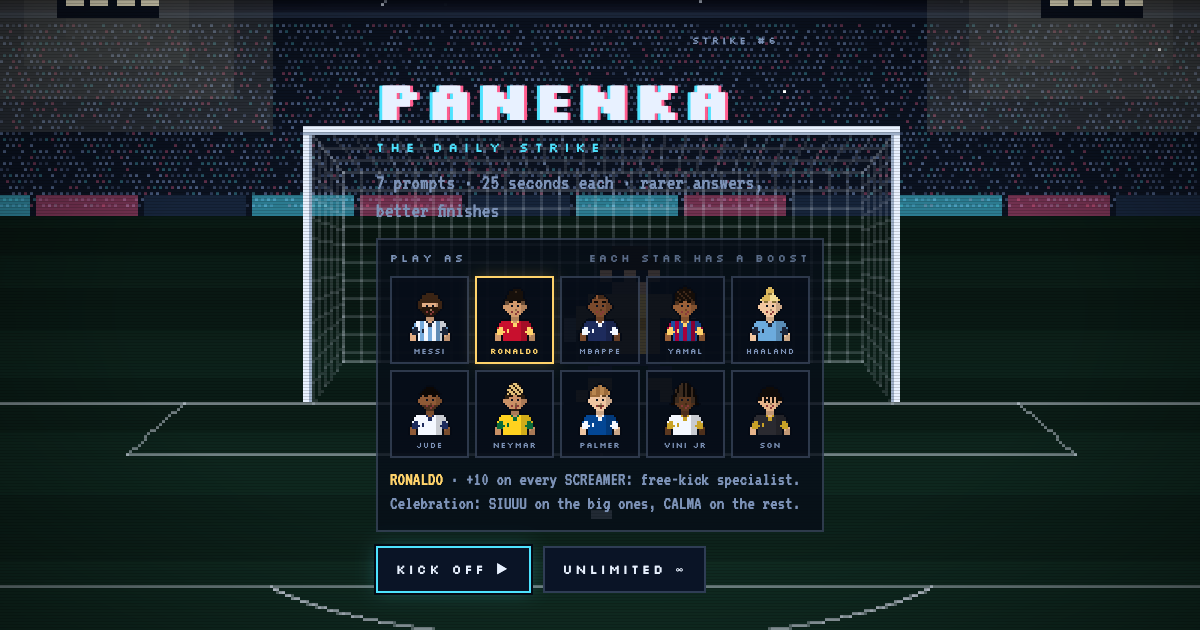
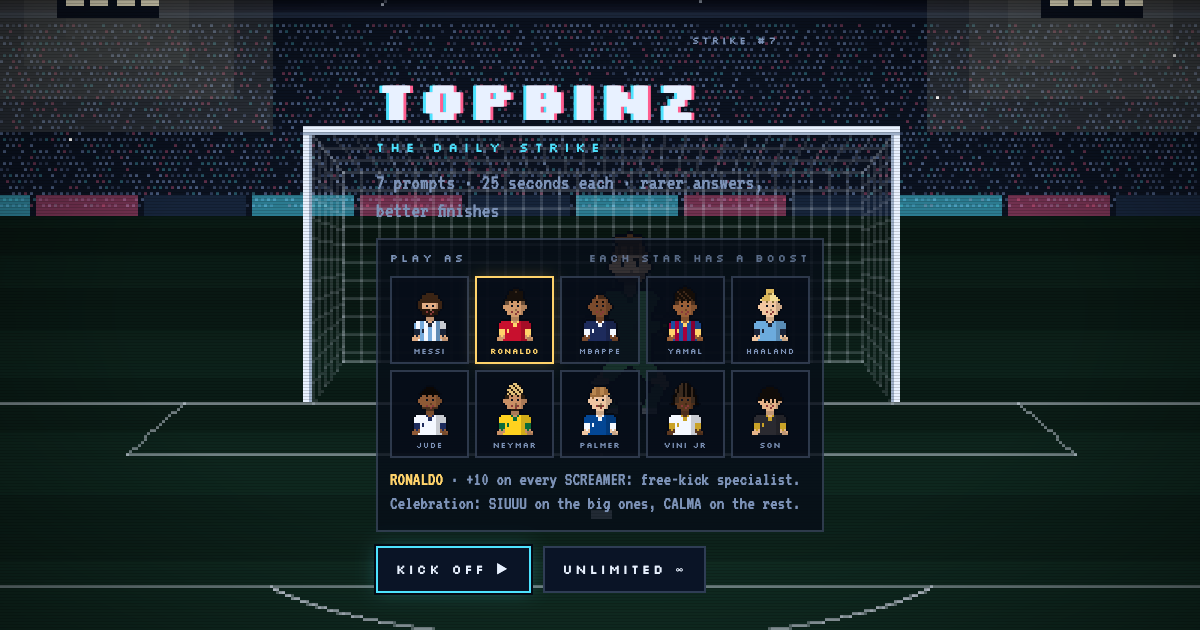
Rename to Topbinz

diff --git a/index.html b/index.html
@@ -3,11 +3,11 @@
 <head>
 <meta charset="utf-8">
 <meta name="viewport" content="width=device-width, initial-scale=1, viewport-fit=cover">
-<title>Panenka</title>
+<title>Topbinz</title>
 <meta name="description" content="A daily soccer trivia game. Name rare answers to score better finishes, from tap-ins all the way to top bins.">
 <meta name="theme-color" content="#050a14">
 <meta property="og:type" content="website">
-<meta property="og:title" content="Panenka">
+<meta property="og:title" content="Topbinz">
 <meta property="og:description" content="A daily soccer trivia game. Name rare answers to score better finishes, from tap-ins all the way to top bins.">
 <meta property="og:url" content="https://kennyshii.github.io/top-bins/">
 <meta property="og:image" content="https://kennyshii.github.io/top-bins/og.png">
@@ -162,7 +162,7 @@ svg { display: block; width: 100%; height: auto; overflow: visible; }
 
 <main class="col">
   <header class="top">
-    <a class="logo" id="home" href="./" aria-label="Panenka, back to the start screen">PANENKA</a>
+    <a class="logo" id="home" href="./" aria-label="Topbinz, back to the start screen">TOPBINZ</a>
     <div class="topR">
       <div class="tag" id="strikeTag">STRIKE #1</div>
       <button class="snd" id="snd" type="button" aria-pressed="true" aria-label="Sound" title="Sound on"><svg viewBox="0 0 11 10" shape-rendering="crispEdges" aria-hidden="true"><path d="M0 3h3v4H0zM3 2h1v6H3zM4 1h1v8H4z" fill="currentColor"/><path class="on" d="M7 3h1v4H7zM9 1h1v8H9z" fill="currentColor"/><path class="off" d="M7 3h1v1H7zM9 3h1v1H9zM8 4h1v2H8zM7 6h1v1H7zM9 6h1v1H9z" fill="currentColor"/></svg></button>
@@ -170,7 +170,7 @@ svg { display: block; width: 100%; height: auto; overflow: visible; }
   </header>
 
   <section class="hero" id="intro">
-    <h1>PANENKA</h1>
+    <h1>TOPBINZ</h1>
     <p class="kicker">THE DAILY STRIKE</p>
     <p class="rules">7 prompts · 25 seconds each · rarer answers, better finishes</p>
     <div class="pick">
@@ -2138,7 +2138,7 @@ function logSvg(results) {
 }
 
 function shareText(g) {
-  const head = g.mode === "daily" ? `PANENKA #${today.no}` : "PANENKA ∞";
+  const head = g.mode === "daily" ? `TOPBINZ #${today.no}` : "TOPBINZ ∞";
   return `${head} · ${g.total} pts · as ${playerById(g.pl).name}\n${g.results.map((r) => shotOf(r.pts).sq).join("")}\n${g.results.map((r, i) => `${i + 1}. ${r.i === null ? "—" : r.pts + (r.bonus || 0)}`).join("  ")}`;
 }
 

diff --git a/README.md b/README.md
@@ -1,4 +1,4 @@
-# Panenka
+# Topbinz
 
 A daily soccer trivia game. Each prompt asks you to name something, like a Ballon d'Or winner, a club that has won La Liga or a player from a World Cup-winning squad. The rarer your correct answer, the better the finish, from a tap-in all the way up to top bins.
 
